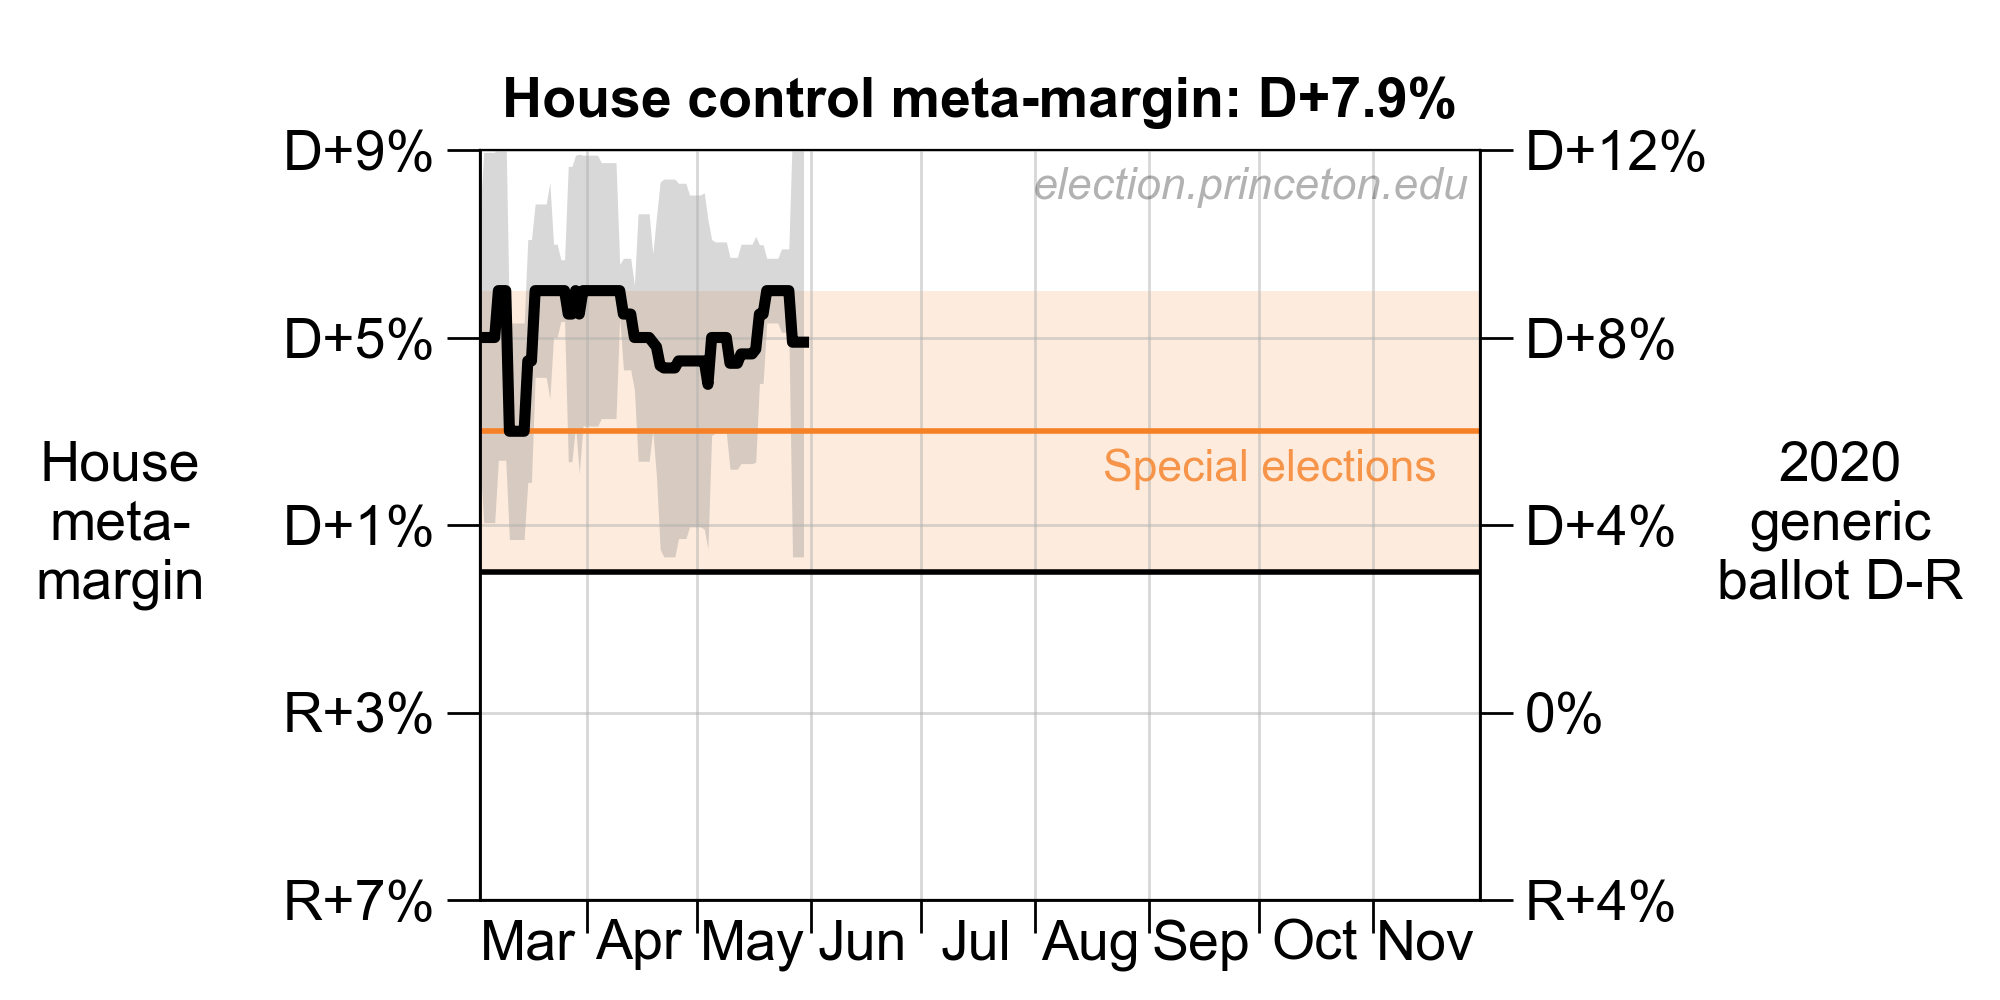
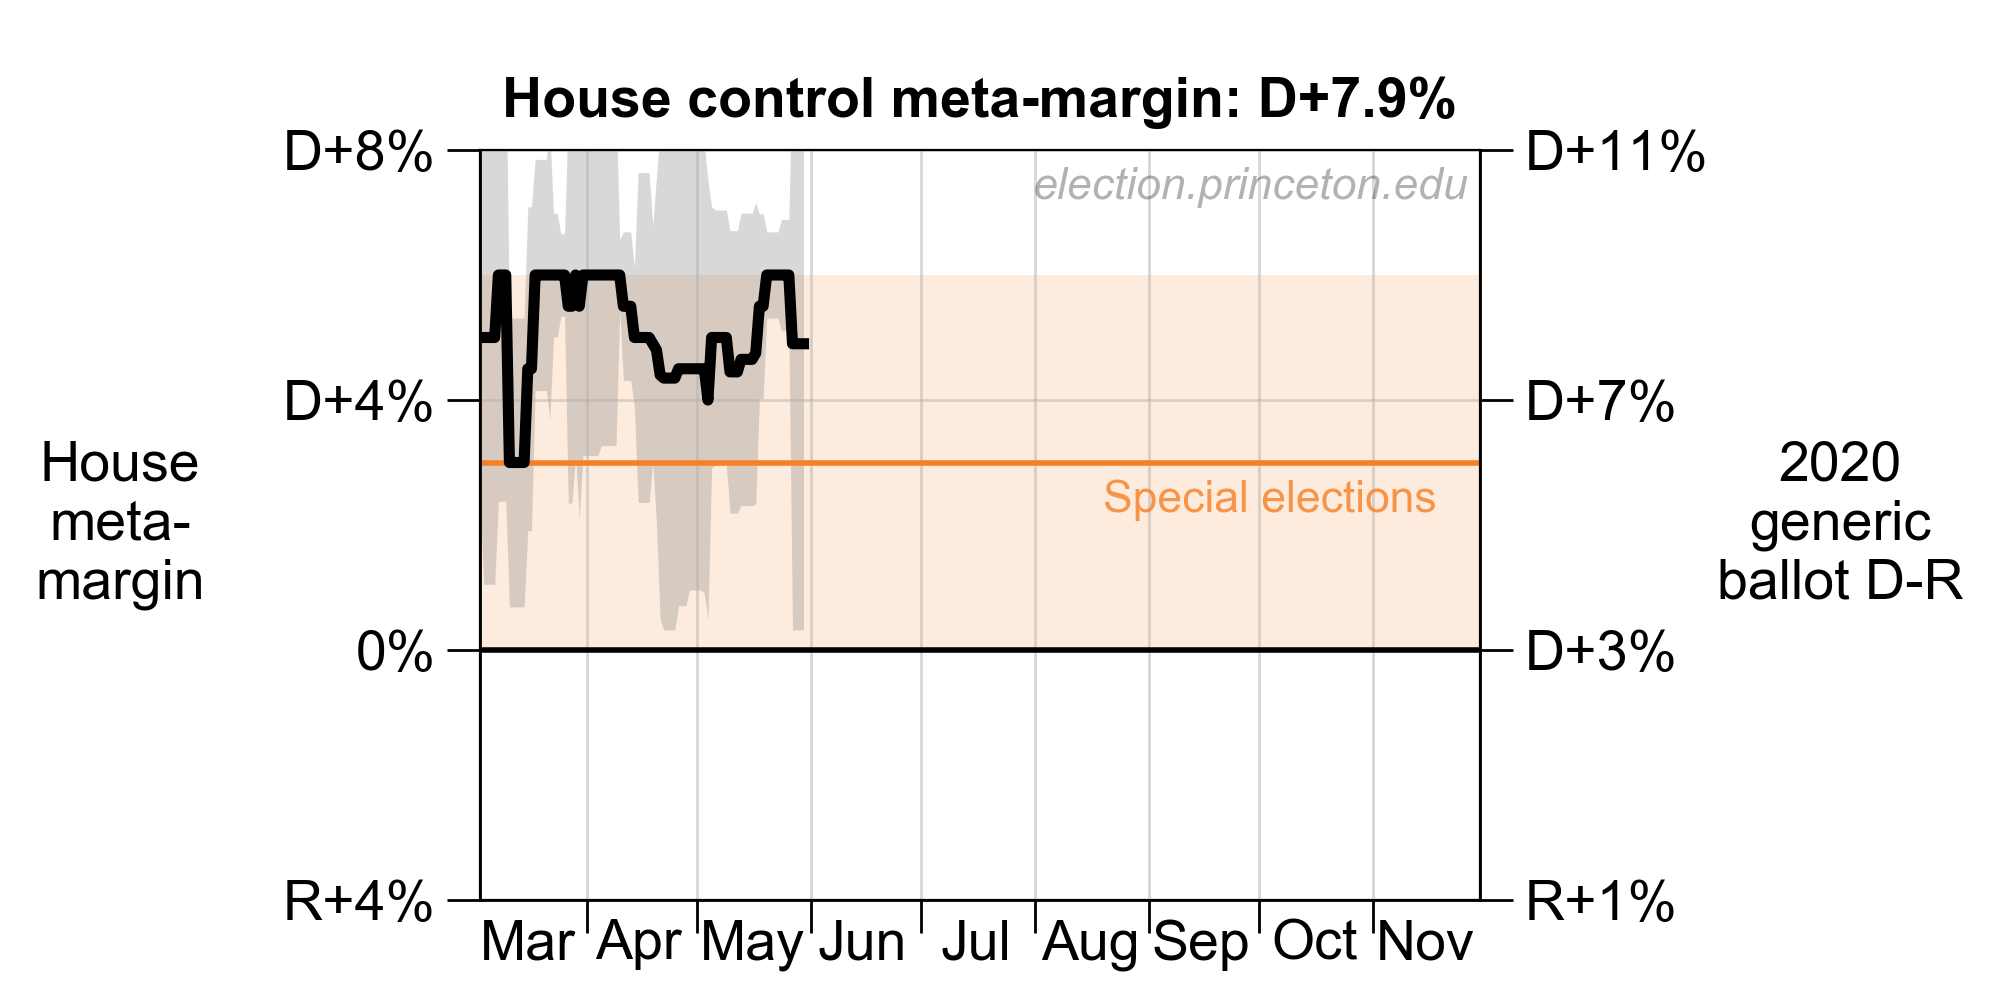
yaxis house fix

diff --git a/python_graphics/main.py b/python_graphics/main.py
@@ -109,7 +109,7 @@ generate_line_plot(
         x_column='date',
         y_column='median_margin',
         yerr_columns=['esd'],
-        ylim=(-4, 12),
+        ylim=(-1, 9),
         yticks_interval=4,
         ylab_txt='House\nmeta-\nmargin',
         ylab_pad=0.09,
